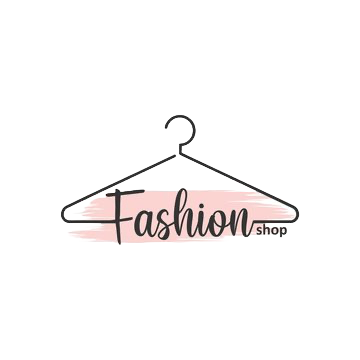
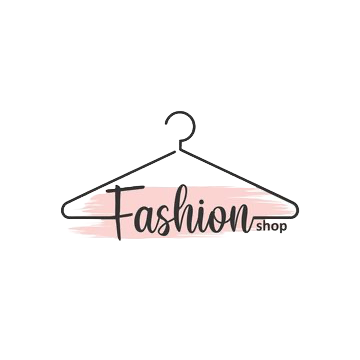
update nav

Changed region(s): [[0.1528, 0.3056, 0.8556, 0.6722]]

diff --git a/login.html b/login.html
@@ -14,20 +14,19 @@
       integrity="sha384-ggOyR0iXCbMQv3Xipma34MD+dH/1fQ784/j6cY/iJTQUOhcWr7x9JvoRxT2MZw1T"
       crossorigin="anonymous"
     />
-    <link rel="stylesheet" href="index.css" />
+      <link rel="stylesheet" href="index.css" />
   </head>
 
-  <header>
-    <nav class="first-nav navbar navbar-expand-lg navbar-light bg-light">
-      <a class="navbar-brand" href="index.html"><img src="imgs/My project.png" style="height: 140px;
-        width:auto; padding: 5px; margin-top: 10px;"></a>
-
+  <header class="sticky-top">
+    <nav class="first-nav navbar navbar-expand-lg navbar-light bg-light ">
+      <a class="navbar-brand" href="index.html"><img src="imgs/My project-3.png"></a>
+      
       <div class="nav-button-container">
         <button class="btn btn-outline-primary">
-          <a class="nav-link" href="#">Log in</a>
+          <a class="nav-link" href="login.html">Log in</a>
         </button>
-        <button class="btn btn-secondary" href="#">
-          <a class="nav-link" href="#">Sign Up</a>
+        <button class="btn btn-secondary" href="login.html">
+          <a class="nav-link" href="login.html">Sign Up</a>
         </button>
       </div>
     </nav>
@@ -83,8 +82,6 @@
           class="nav-img-heart-checkout"
           src="imgs/img-header/nav-checkout.png"
         />
-
-        <button class="btn btn-outline-success my-2 my-sm-0" type="submit">Check Out</button>
       </div>
     </nav>
   </header>

diff --git a/aboutus.html b/aboutus.html
@@ -20,14 +20,13 @@
 
   <header class="sticky-top">
     <nav class="first-nav navbar navbar-expand-lg navbar-light bg-light ">
-      <a class="navbar-brand" href="index.html"><img src="imgs/My project.png" style="height: 140px;
-        width:auto; padding: 5px; margin-top: 10px;"></a>
+      <a class="navbar-brand" href="index.html"><img src="imgs/My project-3.png"></a>
       
       <div class="nav-button-container">
         <button class="btn btn-outline-primary">
           <a class="nav-link" href="login.html">Log in</a>
         </button>
-        <button class="btn btn-secondary" href="#">
+        <button class="btn btn-secondary" href="login.html">
           <a class="nav-link" href="login.html">Sign Up</a>
         </button>
       </div>
@@ -77,13 +76,13 @@
         <button class="btn btn-outline-success my-2 my-sm-0" type="submit">Search</button>
       </form>
       <div>
-        <!-- <span class="love">
+        <span class="love">
           <img
           class="nav-img-heart-checkout"
           src="imgs/img-header/nav-heart.png"
         />
         <span id="loveItems"></span>
-        </span> -->
+        </span>
        
         <span class="basket">
             <img

diff --git a/productspage.html b/productspage.html
@@ -20,14 +20,13 @@
 
   <header class="sticky-top">
     <nav class="first-nav navbar navbar-expand-lg navbar-light bg-light ">
-      <a class="navbar-brand" href="index.html"><img src="imgs/My project.png" style="height: 140px;
-        width:auto; padding: 5px; margin-top: 10px;"></a>
+      <a class="navbar-brand" href="index.html"><img src="imgs/My project-3.png"></a>
       
       <div class="nav-button-container">
         <button class="btn btn-outline-primary">
           <a class="nav-link" href="login.html">Log in</a>
         </button>
-        <button class="btn btn-secondary" href="#">
+        <button class="btn btn-secondary" href="login.html">
           <a class="nav-link" href="login.html">Sign Up</a>
         </button>
       </div>

diff --git a/index.css b/index.css
@@ -110,6 +110,12 @@
   height: 400px;
 }
 
+.first-nav img{
+ height: 67px;
+  width:auto; 
+  padding: 5px; 
+  margin-top: 5px;
+}
 
 @media (max-width: 575.98px) { 
   .home-first-container img{
@@ -120,6 +126,12 @@
   height: 200px;
 }
 
+.first-nav img{
+  height: 45px;
+}
+.form-control {
+  width: 120px;
+}
  }
 
  
@@ -129,8 +141,8 @@
 
 .nav-img-heart-checkout{
     width: 24px;
-    margin-left: 10px;
-    margin-right: 10px;
+    margin-left: 5px;
+    margin-right: 5px;
 }
 
 

diff --git a/index.html b/index.html
@@ -20,8 +20,7 @@
 
   <header class="sticky-top">
     <nav class="first-nav navbar navbar-expand-lg navbar-light bg-light ">
-      <a class="navbar-brand" href="index.html"><img src="imgs/My project.png" style="height: 140px;
-        width:auto; padding: 5px; margin-top: 10px;"></a>
+      <a class="navbar-brand" href="index.html"><img src="imgs/My project-3.png"></a>
       
       <div class="nav-button-container">
         <button class="btn btn-outline-primary">
